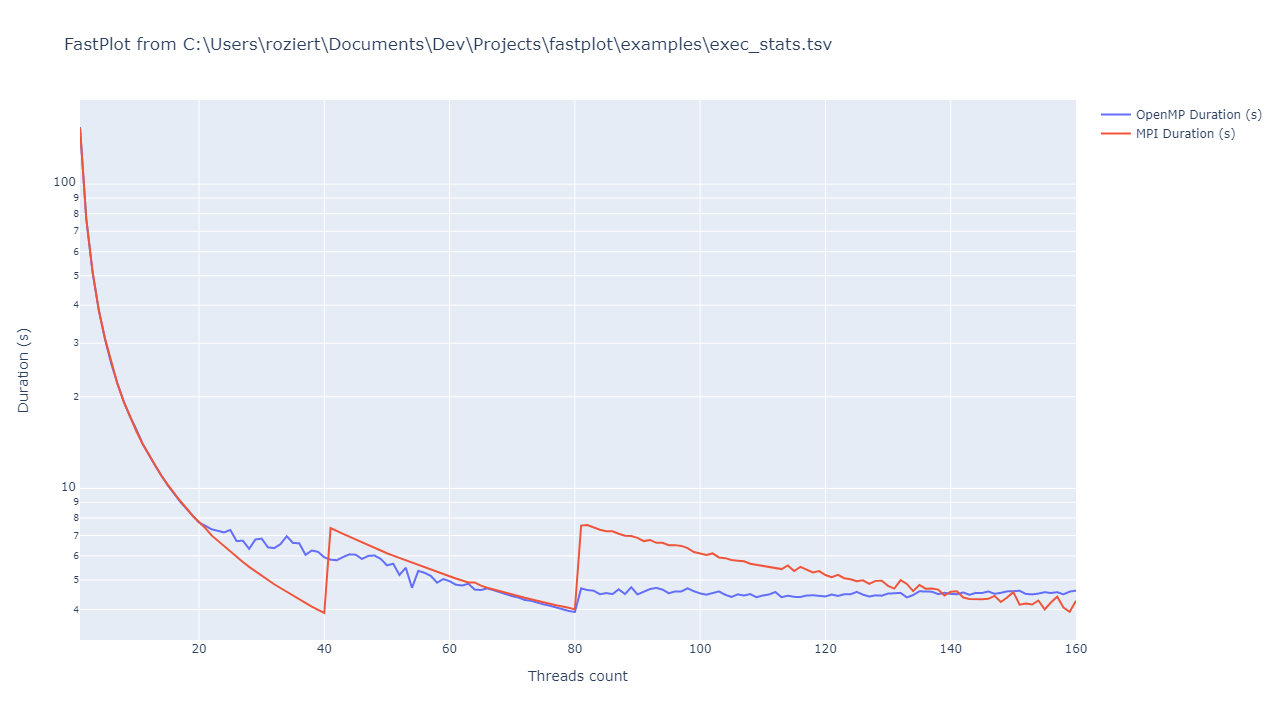
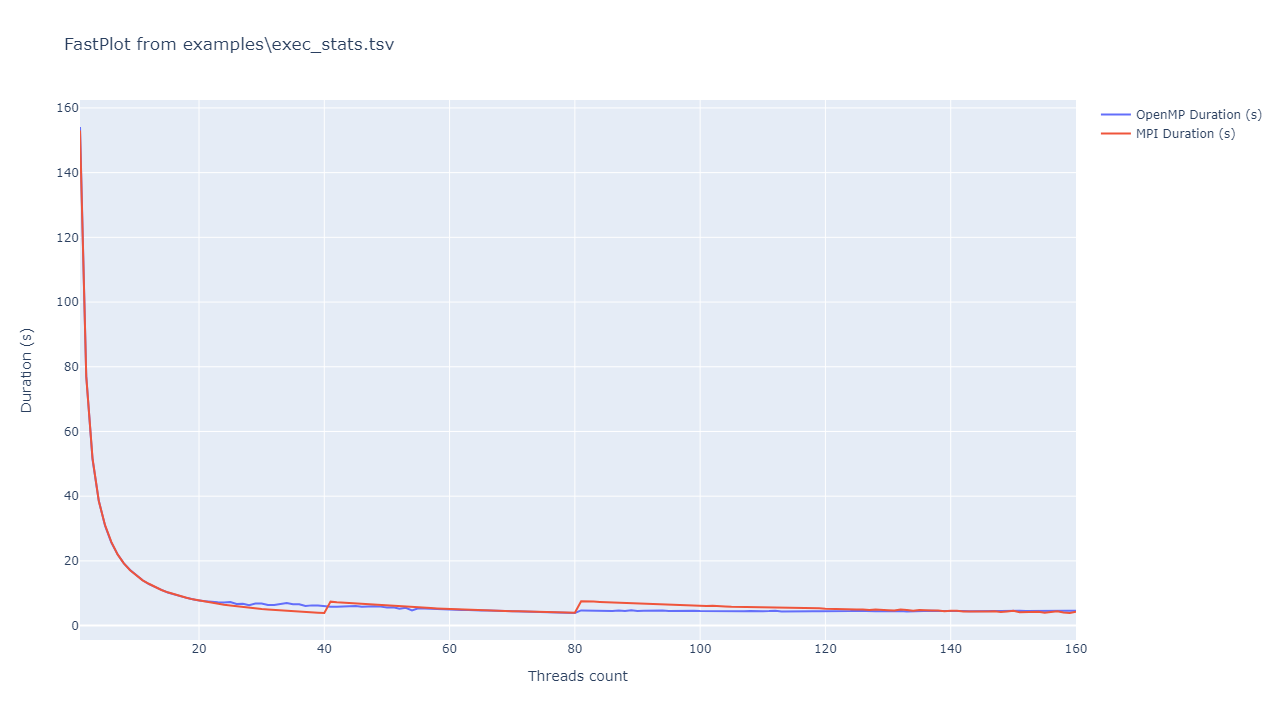
Working on README.

diff --git a/script/fastplot/main.py b/script/fastplot/main.py
@@ -1,3 +1,5 @@
+#!/usr/bin/env python
+
 from argparse import ArgumentParser, HelpFormatter
 from os import path
 import itertools

diff --git a/script/fastplot/README.md b/script/fastplot/README.md
@@ -1,0 +1,51 @@
+# FastPlot
+FastPlot is a small python utility based on [Plotly](https://plotly.com/) for plotting data from a text file. 
+By default, little to no arguments are needed in order to produce a plot, but this CLI allows you to 
+customize the parsing of the input file and format of the output plot using many arguments.
+
+## Table of contents
+- [Installation](#installation)
+- [Usage](#usage)
+
+## Installation
+For now, this tool must be installed manually from this repo.
+It is recommended to use [Pipenv](https://pipenv.pypa.io) to avoid dependency issues. 
+
+First, you'll need to install pipenv with `pip install --user pipenv` *(more installation methods on their 
+website)*, once you have pipenv, run `pipenv install` in FastPlot's directory. Note that this will put the
+environment in a directory called `.virtualenvs` under your user's home directory. If you want to avoid that,
+you can set the environment variable `PIPENV_VENV_IN_PROJECT=1` before running any pipenv-related command.
+
+## Usage
+> Disclaimer: This section covers usage of the tool through Pipenv, refer to [installation section](#installation) 
+> for more information about Pipenv.
+
+Once your Pipenv environment is set up and all dependencies installed into it, you can use two commands to run
+FastPlot into the environment:
+- `pipenv run python main.py`, this directly runs the script into the environment *(useful for aliases)*.
+- `pipenv shell`, this command opens a new shell session with some modified variables that allows you to run
+python in this environment. Once you are in this new shell, you can use `python main.py` directly *(useful 
+for development)*.
+
+You can then append command arguments after `main.py`, to a get the help message use `--help` argument.
+The only required argument is the input file which can be any text file. By default, the program parses
+the input file as a space-separated values files *(with skipping empty values)*, if the input file
+is either a `.csv` or `.tsv` file the separator character is not a space but respectively a comma or
+a tabulation. For the output plot, the program tries to open the plot into your browser (with an interactive
+plot), if you're running this on a non-windowed system, the program falls back to a default output image 
+placed next to your input file with the same name and the `.png` extension appended. If you only want to
+output an image, use the `-o` argument with a path to the image.
+
+This repository provides an `examples` directory with some usage examples. You can try with the
+`examples/exec_stats.tsv` file with the command line `python main.py examples/exec_stats.tsv`. As you can 
+see below, the output plot has guessed axis titles and legend from the first line of the TSV *(this would 
+be the same with a CSV)*.
+
+![View of exec_stats.png](examples/exec_stats.png)
+
+Another simple example is with `examples/exec_stats_padded`, this file is just a space-separated variant
+of the previous one *(with some variation in the data)*. With `python main.py examples/exec_stats_padded`,
+you can see the following result.
+
+![View of exec_stats.png](examples/exec_stats_padded.png)
+
